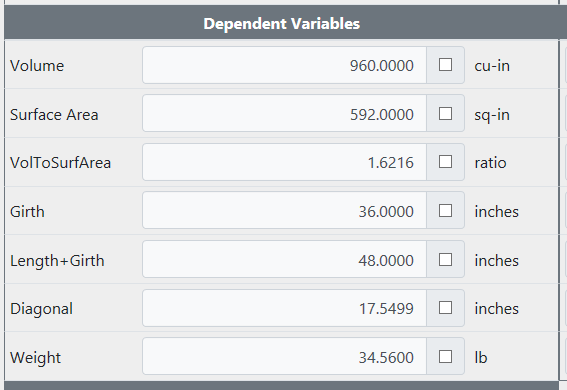
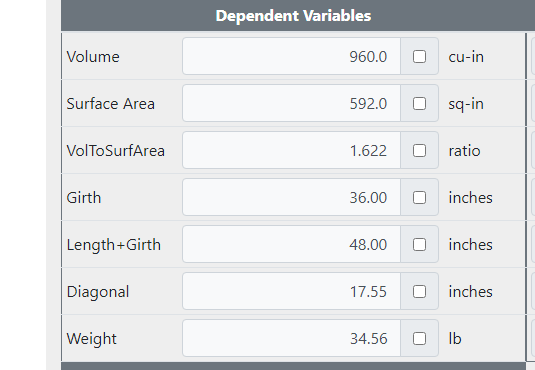
292  Continue Help & doc updates after 3.2 release
Minor edits.
Re-do a few screen captures.

diff --git a/docs/Help/gettingStarted.md b/docs/Help/gettingStarted.md
@@ -47,12 +47,12 @@ please confirm that the ODOP program is running in a browser window (or tab)
 and that the Rectangular Solid design type is loaded.
 You should see Independent Variables like Length, Width and Height.
 If you see the Independent Variables of the Compression Spring design type 
-(OD\_Free, Wire\_Dia and L\_Free),
+(OD\_Free, Wire\_Dia, L\_Free, etc.),
 simply click the refresh button of the window containing the ODOP program, 
-drop down the box under "Select design type to open:" 
-and select the "Solid" design type.   
+drop down the box under "Select design type to open:", 
+select the "Solid" design type and click the "Open" button.   
 
-This screen capture illustrates selecting the **Solid** design type 
+This screen capture illustrates selecting the Rectangular **Solid** design type 
 and its default design called **Startup**.   
 ![Start with Rectangular Solid](./png/SelectSolid.png "Start with Rectangular Solid")   
 
